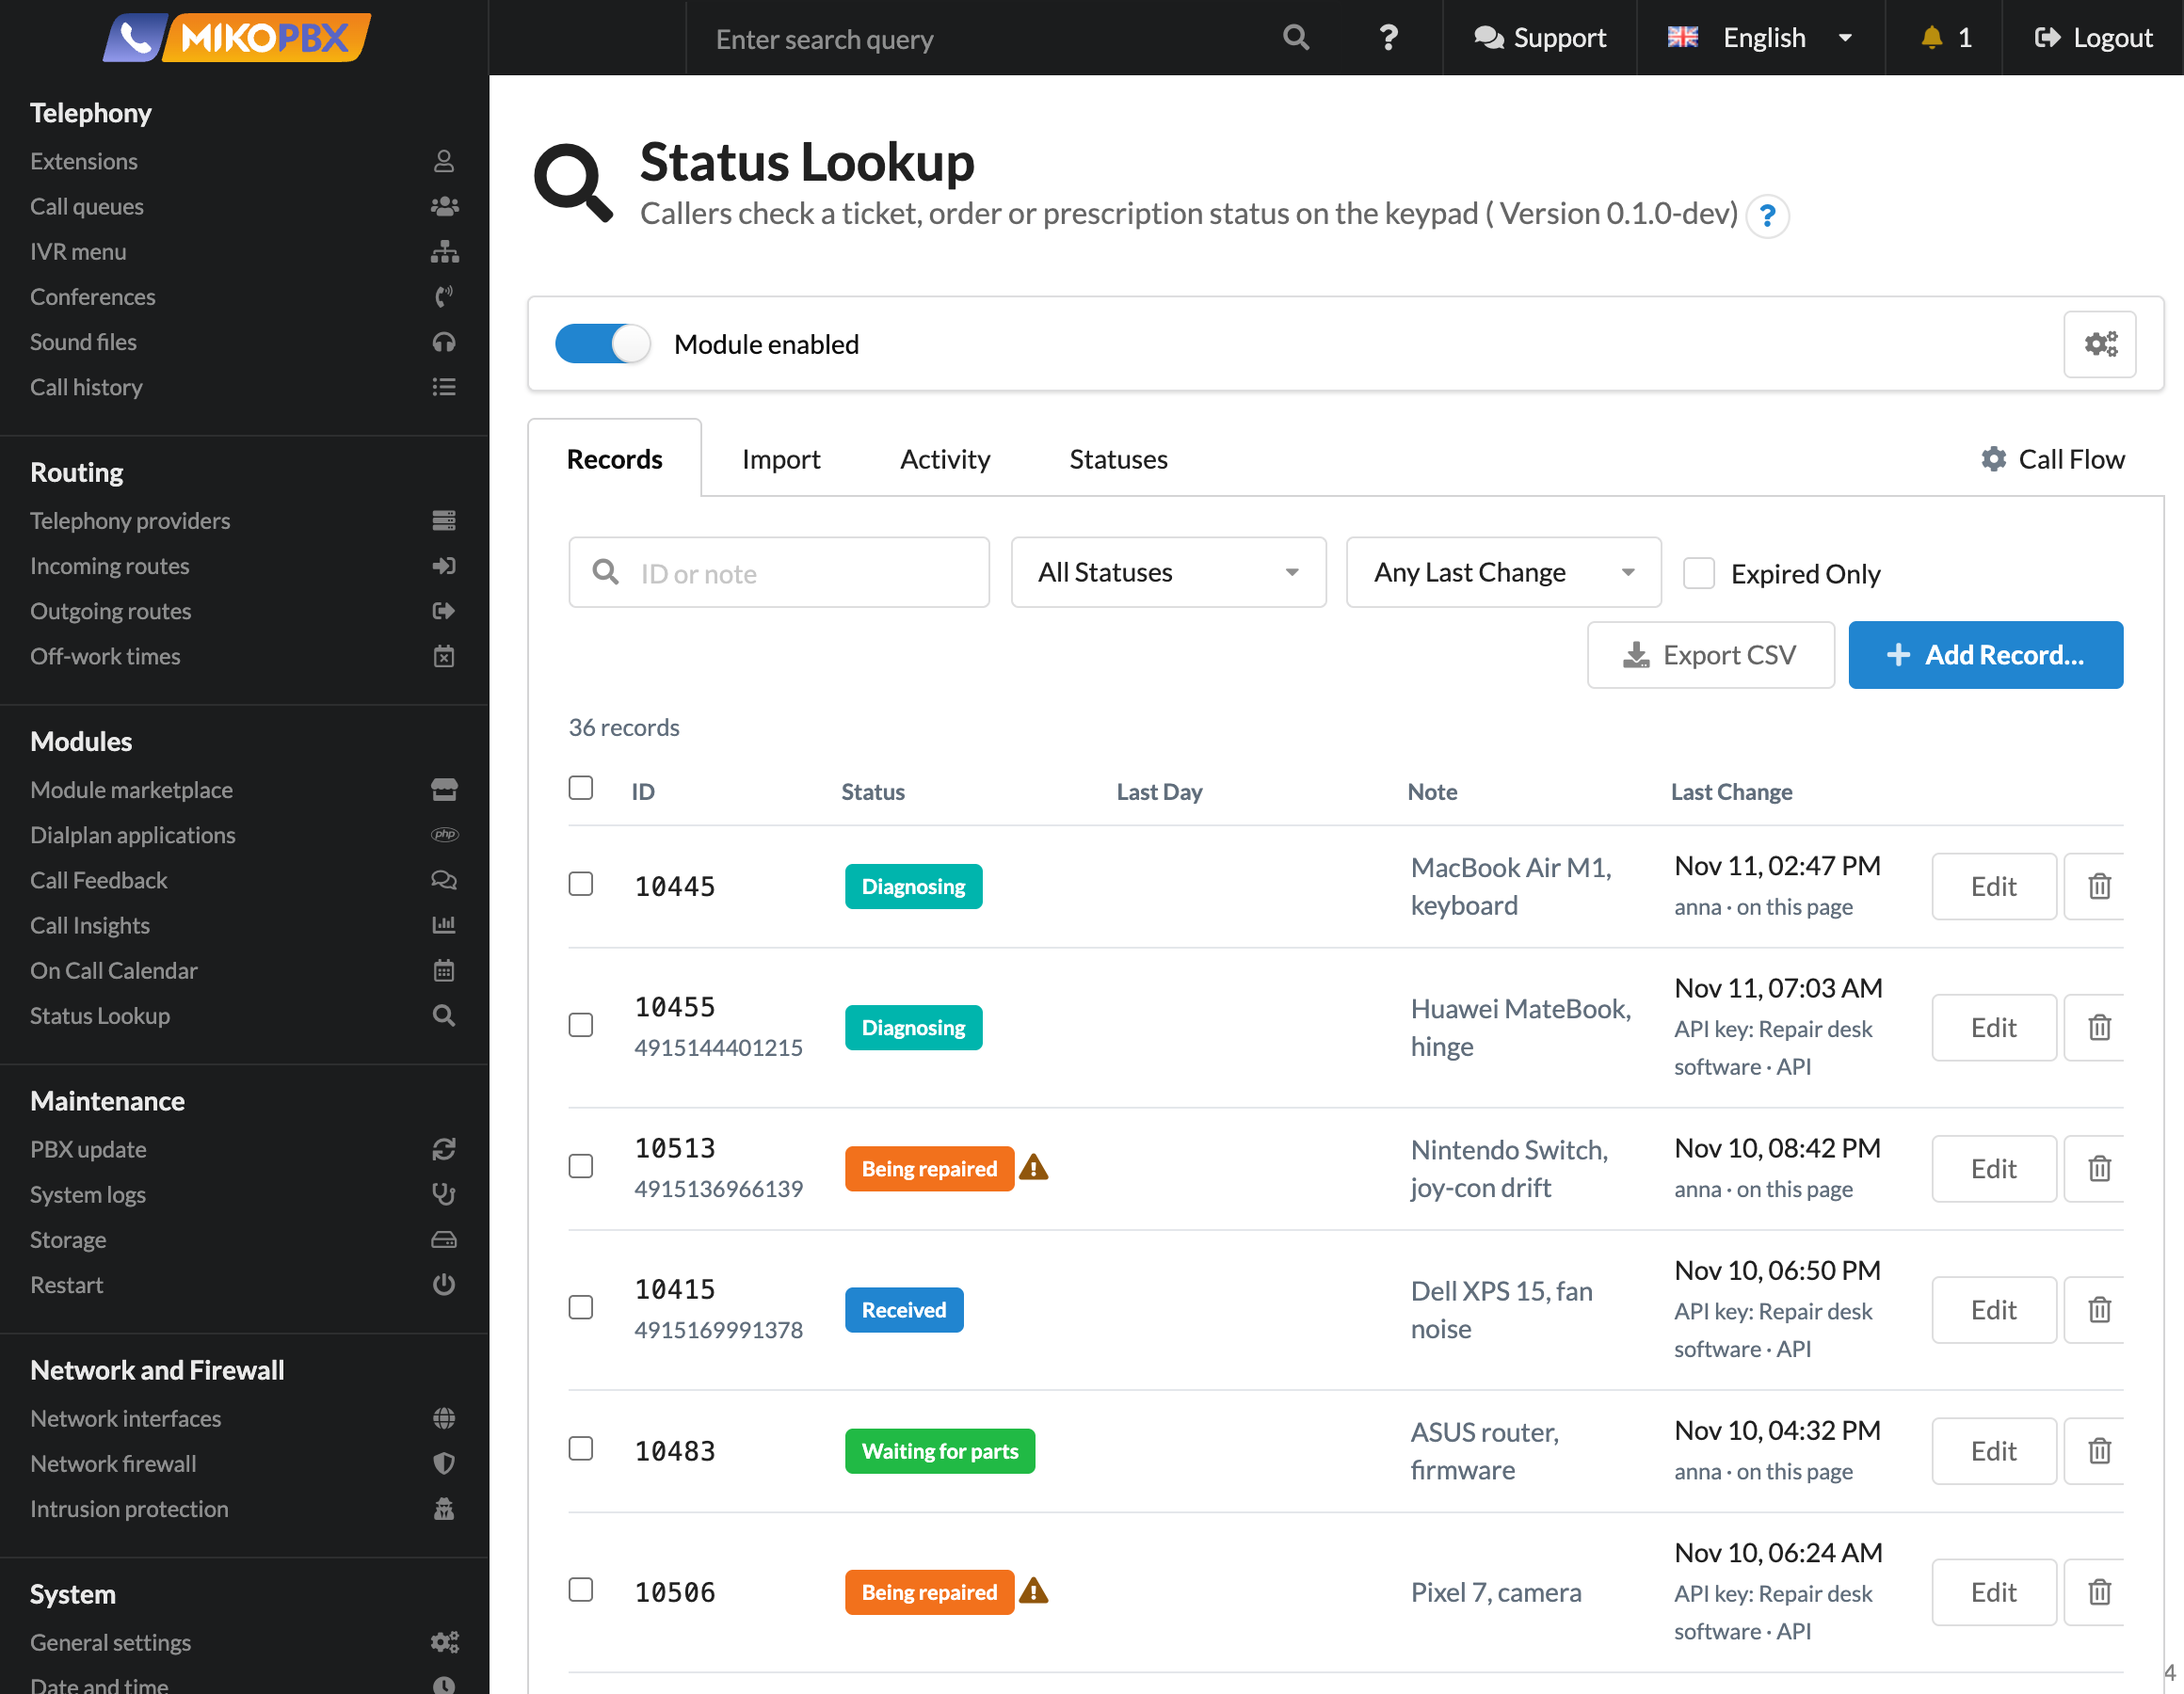
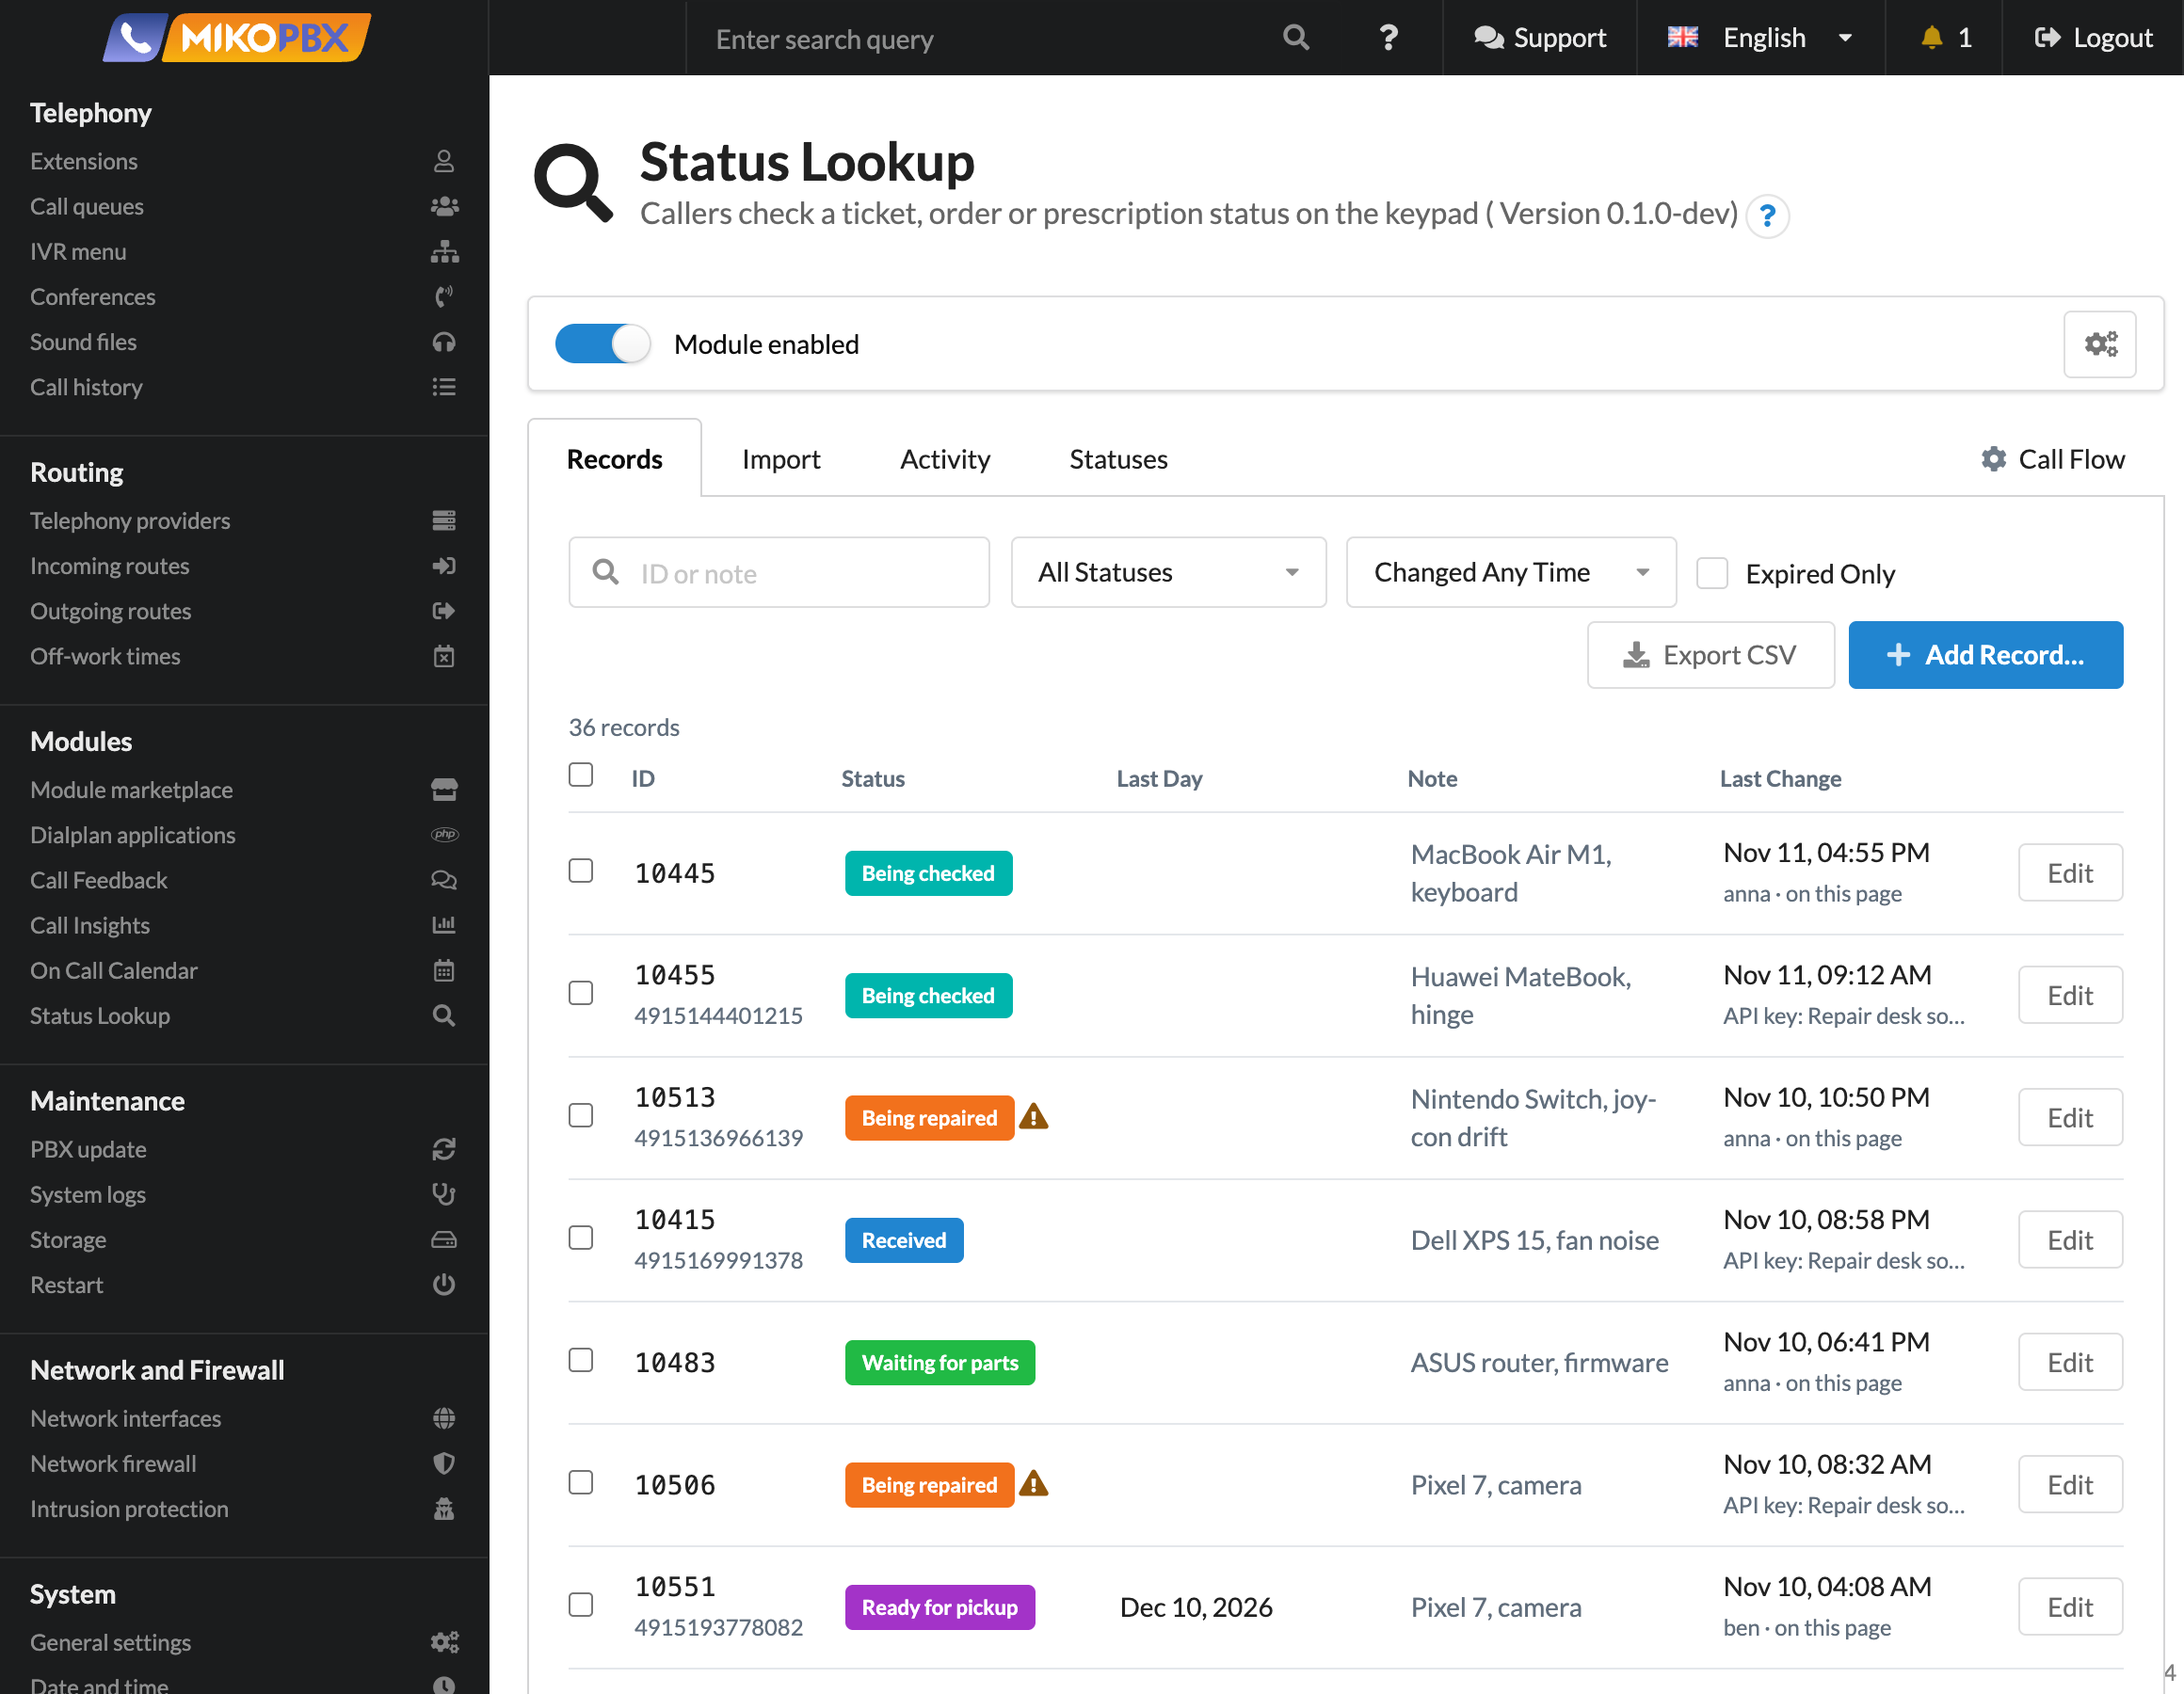
Keep the records table within a laptop-width page; current screenshots
- A record's Delete moves from its table row into its Edit dialog (several
  are still deleted with Delete Selected), the Edit button is compact, the
  "changed by" line is cut off at a narrower width (whole text on hover),
  and the note column may shrink a little further: at 1160 px the table
  now fits without its last button being scrolled out of view.
- The README's screenshots are taken again from the current page, in
  English, with the made-up data of a repair shop.

diff --git a/public/assets/css/status-lookup.css b/public/assets/css/status-lookup.css
@@ -169,7 +169,7 @@
 }
 .sl-page .sl-bulk .ui.dropdown { min-width: 12em; }
 .sl-page .sl-check-cell { width: 1%; }
-.sl-page .sl-note-cell { min-width: 10em; max-width: 22em; overflow-wrap: break-word; color: var(--sl-muted); }
+.sl-page .sl-note-cell { min-width: 8em; max-width: 22em; overflow-wrap: break-word; color: var(--sl-muted); }
 .sl-page tr.sl-expired td { color: var(--sl-faint); }
 .sl-page tr.sl-expired td .ui.label { opacity: .6; }
 .sl-page .sl-pager { display: flex; align-items: center; gap: var(--sl-space-3); margin-top: var(--sl-space-4); }
@@ -237,10 +237,10 @@
 .sl-page .sl-days-input { max-width: 12em; }
 .sl-page .sl-forget { margin-top: var(--sl-space-6); padding-top: var(--sl-space-4); border-top: 1px solid var(--sl-border); }
 .sl-page .sl-forget > .ui.header { margin: 0; }
-.sl-page .sl-changed-cell { min-width: 9em; max-width: 16em; }
+.sl-page .sl-changed-cell { min-width: 9em; max-width: 12em; }
 /* A wide table scrolls sideways inside the page instead of pushing its buttons out of view. */
 .sl-page .sl-table-scroll { overflow-x: auto; }
-.sl-page .sl-ellipsis { white-space: nowrap; overflow: hidden; text-overflow: ellipsis; max-width: 16em; }
+.sl-page .sl-ellipsis { white-space: nowrap; overflow: hidden; text-overflow: ellipsis; max-width: 11em; }
 .sl-page #sl-import-preview { max-width: 44rem; }
 
 /* ---------------------------------------------------------------- phones */
@@ -263,3 +263,4 @@
     .sl-page table.sl-table.ui.table td.sl-num { text-align: left; }
     .sl-page .sl-ellipsis { max-width: none; white-space: normal; }
 }
+.sl-page .sl-actions-cell .ui.button:last-child { margin-right: 0; }

diff --git a/public/assets/js/src/status-lookup.js b/public/assets/js/src/status-lookup.js
@@ -1083,8 +1083,9 @@ function recordRow(r, today, withDate) {
     // Who changed it may be a long API key name: it wraps, the date doesn't.
     el('td', { class: 'sl-changed-cell' }, el('div', { class: 'sl-nowrap', text: shortDateTime(r.updated_at) }), changedBy(r)),
     el('td', { class: 'sl-actions-cell' },
-      el('button', { class: 'ui basic button', type: 'button', onclick: () => openRecord(r) }, t('sl_Edit', 'Edit')),
-      iconButton('trash alternate outline', t('sl_DeleteRecord', 'Delete Record'), () => deleteRecords([r.id], r.lookup_id))));
+      // One button: the records table has the most columns and must fit a laptop. Delete is in the record's dialog
+      // (and Delete Selected for several).
+      el('button', { class: 'ui compact basic button', type: 'button', onclick: () => openRecord(r) }, t('sl_Edit', 'Edit'))));
 }
 
 function renderRecords() {
@@ -1193,6 +1194,9 @@ function openRecord(r) {
   const save = () => saveRecord(r ? r.id : null);
   $id('sl-record-save').onclick = save;
   $id('sl-record-cancel').onclick = () => $('#sl-record-modal').modal('hide');
+  const deleteButton = $id('sl-record-delete');
+  deleteButton.classList.toggle('sl-hidden', !r);
+  deleteButton.onclick = () => { $('#sl-record-modal').modal('hide'); deleteRecords([r.id], r.lookup_id); };
   form.onsubmit = (e) => { e.preventDefault(); save(); };
   $('#sl-record-modal').modal({ autofocus: false, onVisible: () => { if (!r) $id('sl-record-id').focus(); } }).modal('show');
 }

diff --git a/public/assets/js/status-lookup.js b/public/assets/js/status-lookup.js
@@ -1143,8 +1143,9 @@ ${x.script}\r
       el(
         "td",
         { class: "sl-actions-cell" },
-        el("button", { class: "ui basic button", type: "button", onclick: () => openRecord(r) }, t("sl_Edit", "Edit")),
-        iconButton("trash alternate outline", t("sl_DeleteRecord", "Delete Record"), () => deleteRecords([r.id], r.lookup_id))
+        // One button: the records table has the most columns and must fit a laptop. Delete is in the record's dialog
+        // (and Delete Selected for several).
+        el("button", { class: "ui compact basic button", type: "button", onclick: () => openRecord(r) }, t("sl_Edit", "Edit"))
       )
     );
   }
@@ -1291,6 +1292,12 @@ ${x.script}\r
     const save = () => saveRecord(r ? r.id : null);
     $id("sl-record-save").onclick = save;
     $id("sl-record-cancel").onclick = () => $("#sl-record-modal").modal("hide");
+    const deleteButton = $id("sl-record-delete");
+    deleteButton.classList.toggle("sl-hidden", !r);
+    deleteButton.onclick = () => {
+      $("#sl-record-modal").modal("hide");
+      deleteRecords([r.id], r.lookup_id);
+    };
     form.onsubmit = (e) => {
       e.preventDefault();
       save();

diff --git a/CHANGELOG.md b/CHANGELOG.md
@@ -40,7 +40,7 @@ Added:
 - **Privacy settings** (Call Flow tab): how long the call log keeps calls (today and the given number of days before it; by default as long as the PBX keeps its call history, which under 30 days means forever, as in the PBX itself; never less than the last hour, which the guessing protection counts), and whether expired records are deleted every night. The module's worker runs the clean-up at 03:00 PBX time (and a minute after it starts), by whole day; the daily totals stay. **Forget Someone's Data** deletes one ID's record, the logged calls for it, its wrong-PIN counts and its mentions in past imports' rows left out, or every call from one caller number and that number on records (matched on the last digits, as for the caller-ID check); the PBX's system log notes who did it, without the ID or number.
 - **Busy hours and large imports:** the module's database uses SQLite's write-ahead log, so a lookup never waits for an import or the worker to finish writing. The worker waits at most a second for the write lock and otherwise puts a call record back on its queue for a few seconds later, so it keeps answering the PBX's health checks. (The PBX's queue clean-up drops jobs nobody picks up for minutes, so records can still be lost while the worker is down.) Checked with 20 calls at once while 100,000-record Replace All imports ran back to back: every call heard its status within a second and was logged once (`tools/loadtest`).
 - **Database on network storage:** the write-ahead log is used only on local storage, as the PBX decides for its own databases, and is cut back to 4 MB after a large import. A nightly clean-up that finds the database busy tries again 15 minutes later.
-- **Page details:** on the Call Flow tab, what keeps the line from answering links to the field that fixes it, and a value that can't be saved is marked at its field with the reason under it. Forget Someone's Data opens its own dialog, apart from the settings Save stores. On phones, every tab stays reachable and table cells are labelled with their column. An import stops with `statuses_changed` if a status it uses was renamed or deleted while the file was being checked; a record left outside narrowed ID lengths can still be edited, as long as its ID stays the same.
+- **Page details:** on the Call Flow tab, what keeps the line from answering links to the field that fixes it, and a value that can't be saved is marked at its field with the reason under it. Forget Someone's Data opens its own dialog, apart from the settings Save stores. A record is deleted from its Edit dialog (or several with Delete Selected), which keeps the records table narrow enough for a laptop. On phones, every tab stays reachable and table cells are labeled with their column. An import stops with `statuses_changed` if a status it uses was renamed or deleted while the file was being checked; a record left outside narrowed ID lengths can still be edited, as long as its ID stays the same.
 - **Security, after a review:** each wrong PIN is written the moment it is typed, so calls running at the same time count together; the number of callers in the lookup at once is limited (Callers in the Lookup at Once, 10 by default, on the Call Flow tab; more are put through to the operator, logged as "Line full, put through"), which bounds what parallel calls can guess; writes from the page must carry a valid administrator's token, not just the session cookie; every record deleted through the API is noted in the system log with who did it; Replace All through the API refuses to delete more than half the records unless the request says `allowLargeDelete`; Forget overwrites the forgotten data in the database file; the PIN key is created and read without following links, and root never changes its mode outside the install; the ECharts bundle ships zrender's license too; the release workflow keeps its token out of the checkout. README and SECURITY.md say plainly what the guessing protection doesn't cover (IDs that are found, forged caller IDs, outcomes that show an ID exists).
 - **Release tooling:** `build/package.sh` builds the install zip from a commit, and a Release workflow attaches it with its checksum to a draft GitHub release when a version is tagged; SECURITY.md (what the module exposes, how to report a problem) and CONTRIBUTING.md (setup, checks, how a call runs, layout, releases). The README describes setting up and using the module.
 - **Checked with real calls** (`tools/callsim`): besides the call flow, PINs and caller-ID checks, a caller from a trunk can't reach the line except through a route pointed at it, a conversation after the lookup outlasts its 2-minute limit, a caller ID such as `123;Hangup()` with an HTML name is logged as digits, values that would break out of the dialplan are refused with `extensions.conf` unchanged, and with the Call Feedback module installed, a caller who only used the lookup isn't surveyed while one put through to a person is. A full uninstall leaves nothing of the module behind (checked by hand on a test PBX).
